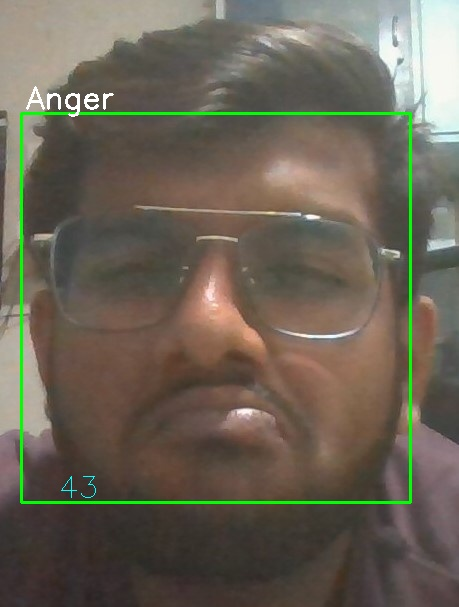
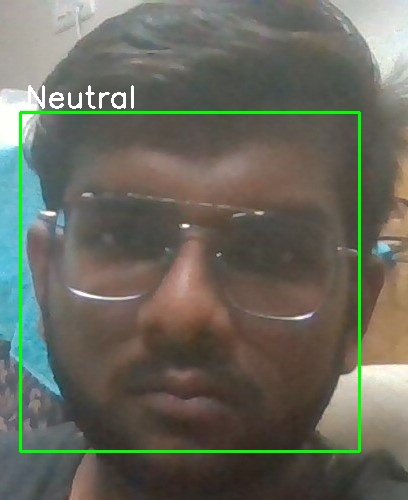
final_commit

diff --git a/emotion-detection.py b/emotion-detection.py
@@ -35,7 +35,7 @@ font = cv2.FONT_HERSHEY_SIMPLEX
 id = 0
 
 # Emotions related to ids: example ==> Anger: id=0,  etc
-names = ['Anger', 'Happy', 'Neutral', 'Sad', 'None'] 
+names = ['Anger', 'Happy', 'Neutral', 'Sad'] 
 
 
 id = "unknown"
@@ -47,7 +47,7 @@ confidence = 0
 
 
 os.chdir("..")
-img = cv2.imread("images/live_04.jpg")
+img = cv2.imread("images/live_02.jpg")
 
 gray = cv2.cvtColor(img,cv2.COLOR_BGR2GRAY)
 
@@ -66,17 +66,15 @@ for(x,y,w,h) in faces:
     # Check if confidence is less then 100 ==> "0" is perfect match 
     if confidence < 100:
         id = names[id]
-        confidence = "  {0}".format(round(100 - confidence))
+        confidence = "  {0}%".format(round(100 - confidence))
         emotion_image = img
-        print(str(id))
         emotion_detected = str(id)
         
     else:
         id = "unknown"
         confidence = "  {0}%".format(round(100 - confidence))
     
-    cv2.putText(img, str(id), (x+5,y-5), font, 1, (255,255,255), 2)
-    cv2.putText(img, str(confidence), (x+5,y+h-5), font, 1, (255,255,0), 1)  
+    cv2.putText(img, str(id), (x+5,y-5), font, 1, (255,255,255), 2)  
 
 
 cv2.imwrite("new.jpg",emotion_image) 

diff --git a/dataset-build.py b/dataset-build.py
@@ -37,6 +37,7 @@ def rename_images(emotion, id):
                 cv2.imwrite("dataset/User."+str(face_id)+"."+str(count)+".jpg", gray[y:y+h,x:x+w])
 
 
+
 os.system('cmd /c "git clone https://github.com/misbah4064/facial_expressions.git"')
 
 os.chdir("facial_expressions")

diff --git a/training.py b/training.py
@@ -6,6 +6,7 @@ from PIL import Image
 path = 'facial_expressions/dataset'
 
 recognizer = cv2.face.LBPHFaceRecognizer_create()
+
 detector = cv2.CascadeClassifier("facial_expressions/haarcascade_frontalface_default.xml")
 
 # function to get the images and label data
